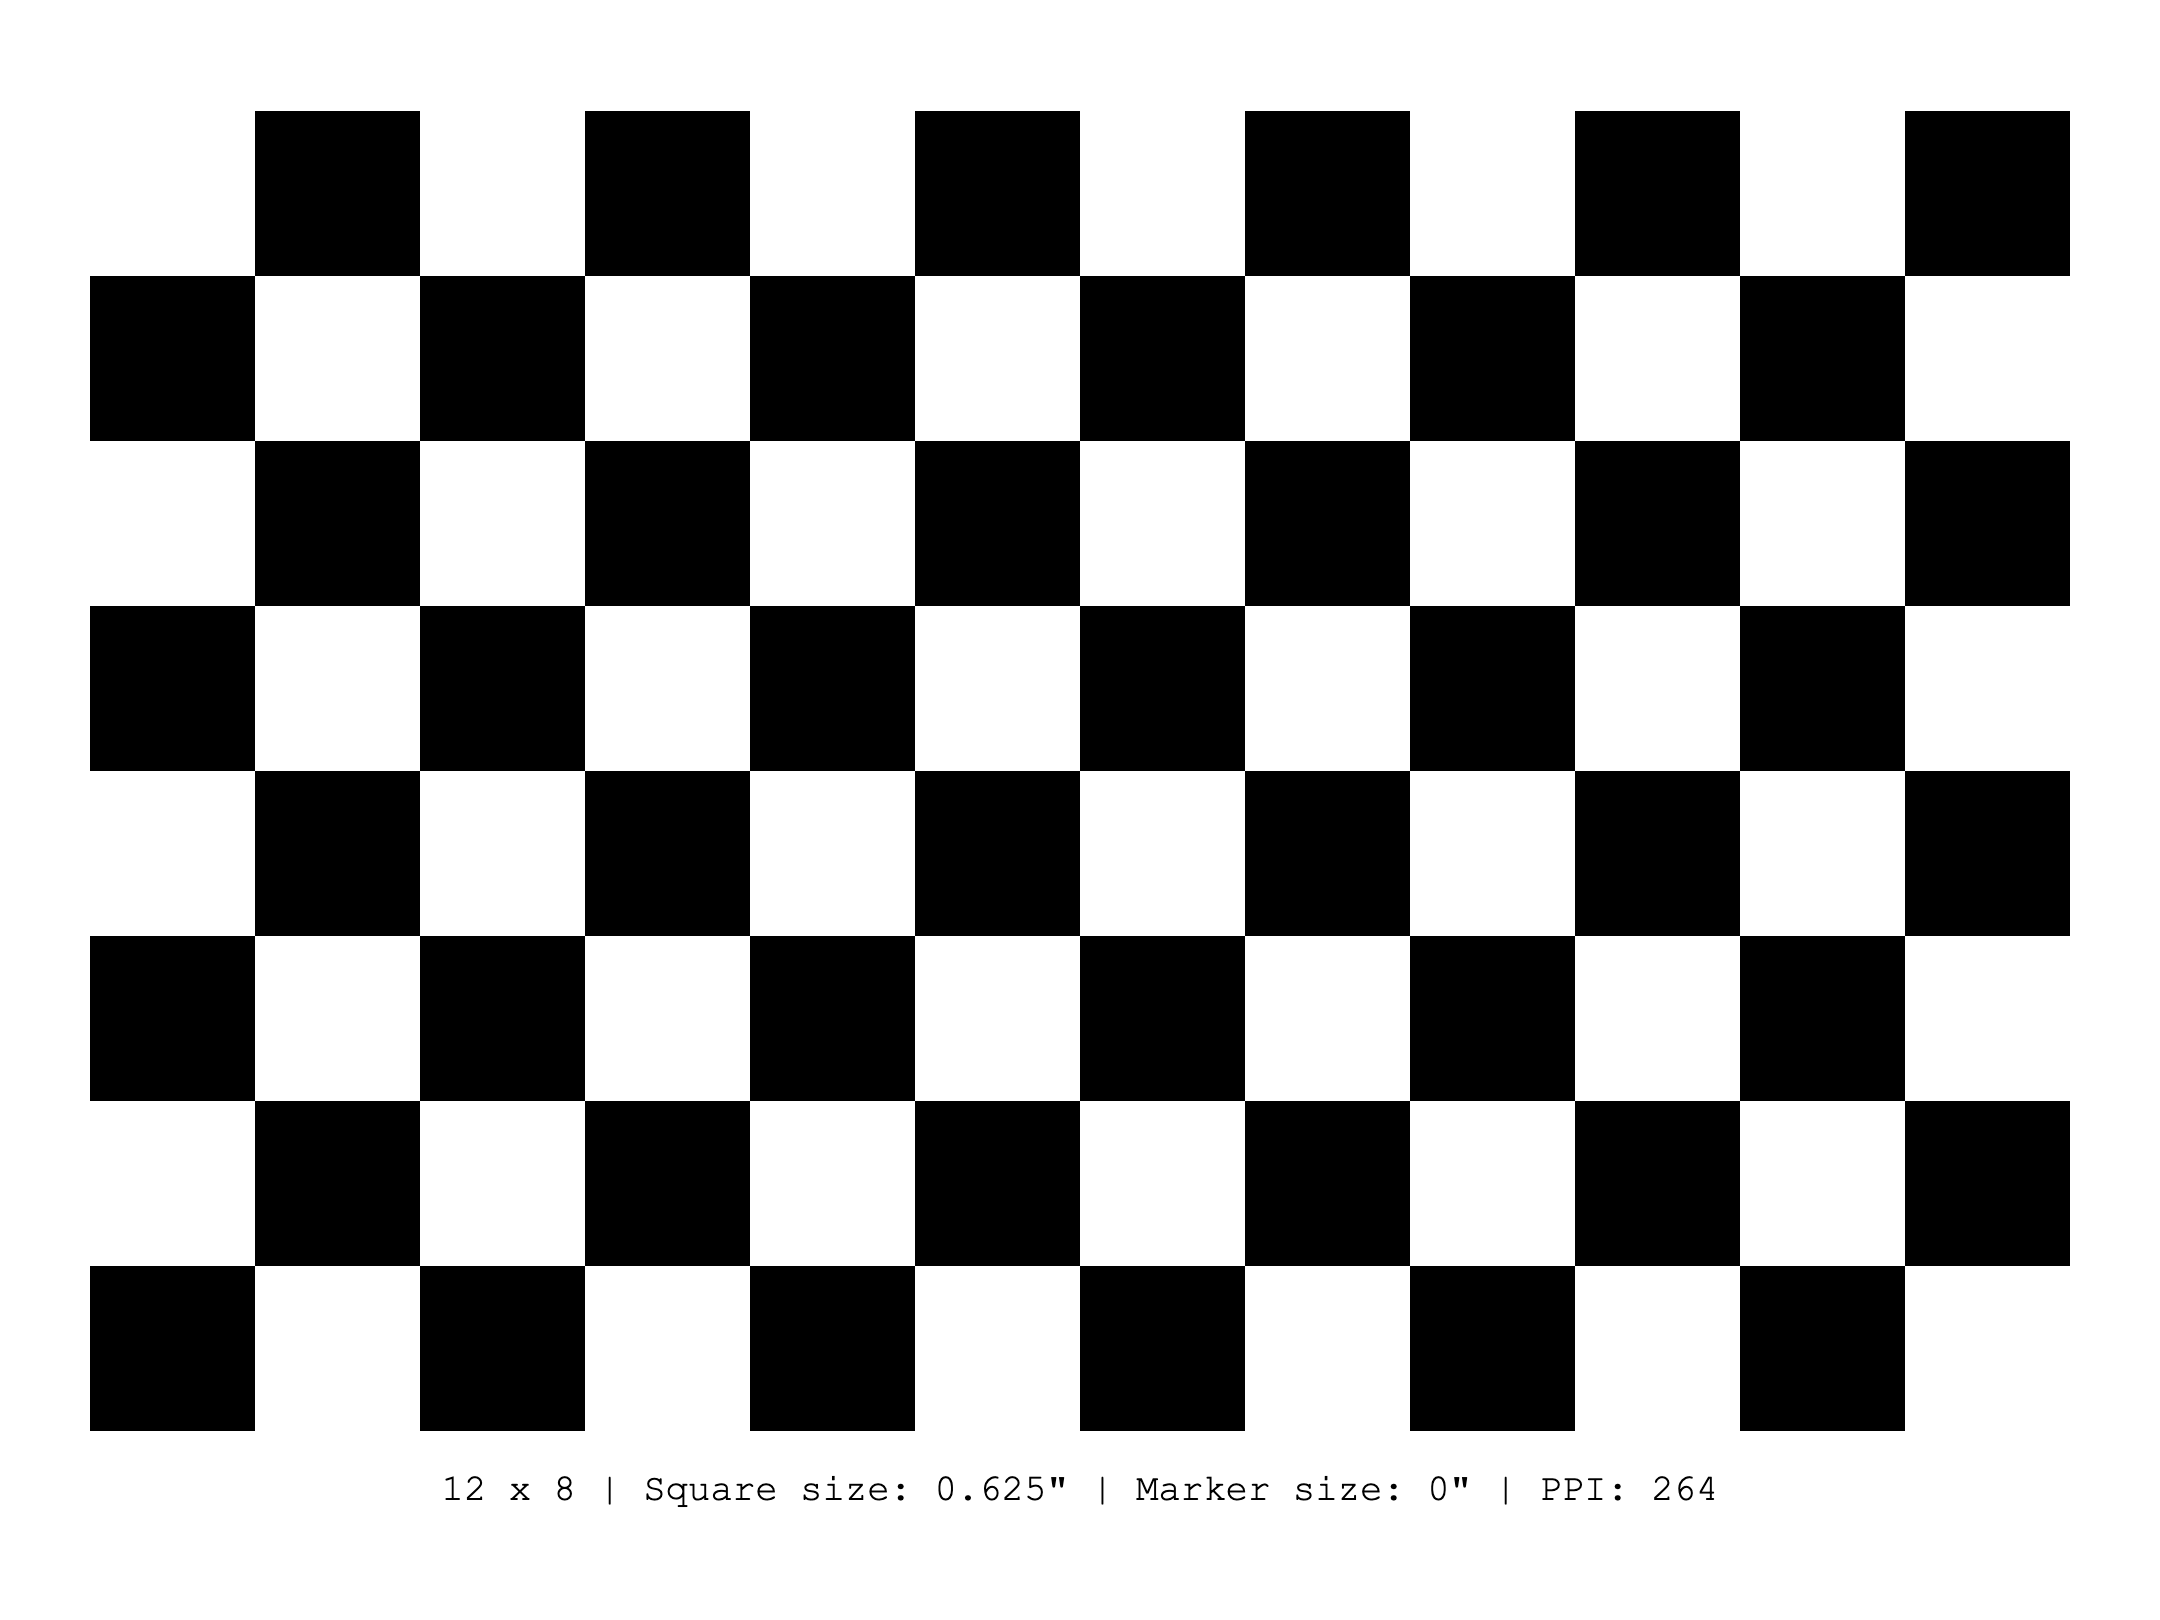
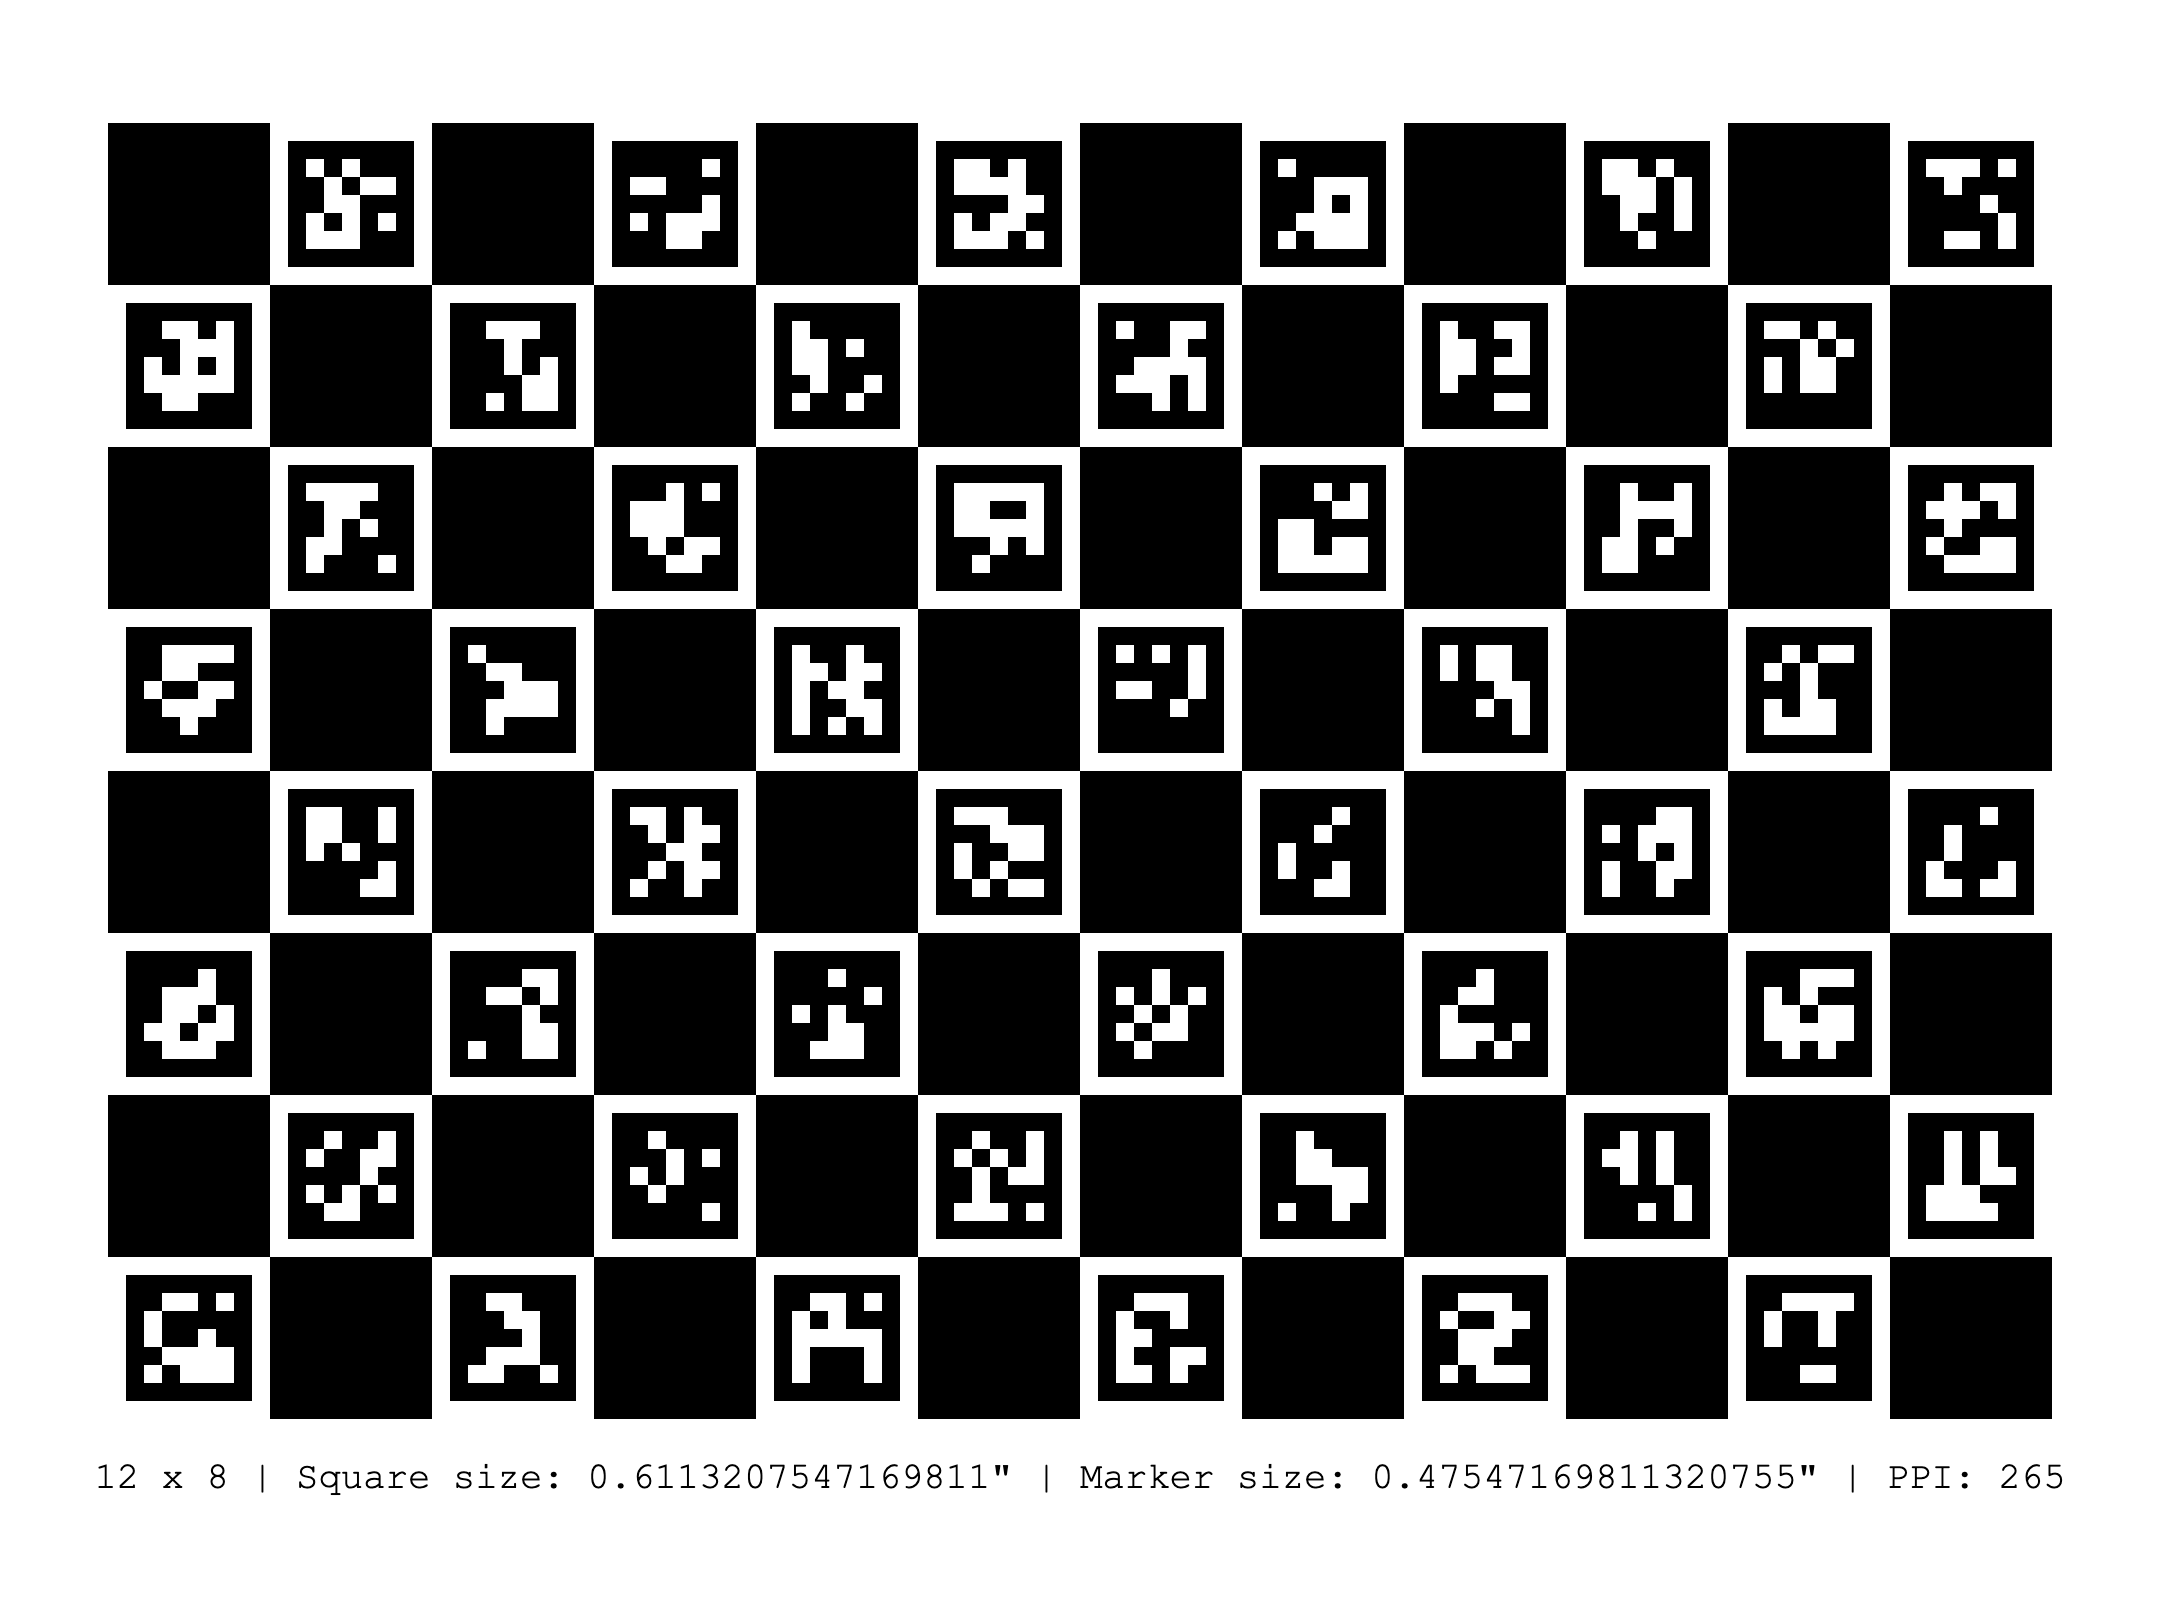
changed default to charuco board

diff --git a/application/script.js b/application/script.js
@@ -1,12 +1,12 @@
-const PPI = 264;
+const PPI = 265;
 
 const ROWS = 8;
 const COLUMNS = 12;
 
-const SCALE = 80;
+const SCALE = 18;
 
-const MARKER_UNIT_WIDTH = 0;
-const MARKER_UNIT_HEIGHT = 0;
+const MARKER_UNIT_WIDTH = 7;
+const MARKER_UNIT_HEIGHT = 7;
 
 const SQUARE_UNIT_WIDTH = MARKER_UNIT_WIDTH + 2;
 const SQUARE_UNIT_HEIGHT = MARKER_UNIT_HEIGHT + 2;
@@ -67,7 +67,7 @@ function draw_board(ctx, marker_dictionary) {
 		for (let col = 0; col < COLUMNS; col++) {
 			let count = col;
 
-			if (row % 2 == 0) {
+			if (row % 2 == 1) {
 				count += 1;
 			}
 
